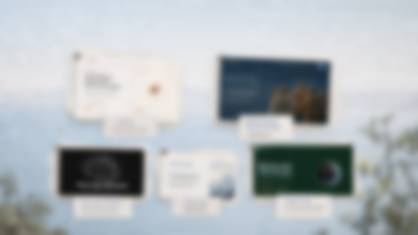
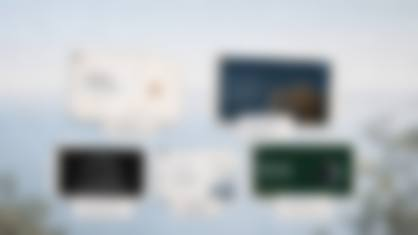
Rebuild the erased text areas and move the pushpins to the card corners
The bands behind "my work" and along the bottom were filled row by row
when the design's own text was erased, which left horizontal streaks and
a flat, slightly darker patch. Both areas are rebuilt from the original
artwork: only the ink itself is replaced now, matched to the paper on
either side of each stroke, so the sky and paper texture around it is
untouched.

The pins now sit on the top-left corner of every project card. The
design's own pins, which sat further in, are cleared from the sheets by
filling along the local paper edge so the sheet corners stay sharp.

Backdrop plates and the lace sheets are regenerated from the repaired
backdrop so every sheet is still cut from the same pixels.

Claude-Session: https://claude.ai/code/session_01HwHnB6ZvdvjAvLg4jAqUHh

diff --git a/index.html b/index.html
@@ -742,7 +742,7 @@ const PROJECTS = [
   {id:"cuelens", laceImg:"assets/work/lace-cuelens.png", cardImg:"assets/work/card-cuelens.jpg", href:"https://cuelensai.vercel.app/",
    lace:{x: 256, y: 196, w: 534, h: 332},
    card:{x: 297, y: 227, w: 434, h: 247, ang: 0},
-   pin: {x: 308.9, y: 224.5},
+   pin: {x: 295.9, y: 227},
    label:{x: 414, y: 468, w: 214, h: 82, padTop: 12},
    title:"CueLens", desc:"AI-powered design analysis<br>to understand user intent."},
 
@@ -755,7 +755,7 @@ const PROJECTS = [
   {id:"brainage", laceImg:"assets/work/lace-brainage.png", cardImg:"assets/work/card-brainage.jpg", href:"https://brainage-calculator.vercel.app/",
    lace:{x: 186, y: 564, w: 434, h: 248},
    card:{x: 205, y: 590, w: 374, h: 192, ang: 0},
-   pin: {x: 233, y: 589},
+   pin: {x: 203.9, y: 590},
    label:{x: 296, y: 786, w: 234, h:  88, padTop: 12},
    title:"Brain Age Calculator", desc:"Quantifying brain wellness<br>using MRI and neuroscience."},
 
@@ -768,7 +768,7 @@ const PROJECTS = [
   {id:"magnusmap", laceImg:"assets/work/lace-magnusmap.png", cardImg:"assets/work/card-magnusmap.jpg", href:"https://aashvigeddam.github.io/magnus-map/",
    lace:{x: 986, y: 546, w: 464, h: 266},
    card:{x:1017, y: 574, w: 402, h: 208, ang: 0},
-   pin: {x:1010, y: 582},
+   pin: {x:1015.9, y: 574},
    label:{x:1104, y: 780, w: 220, h:  92, padTop: 12},
    title:"Magnus Map", desc:"Real-time geospatial mapping<br>and coordination platform."},
 ];
